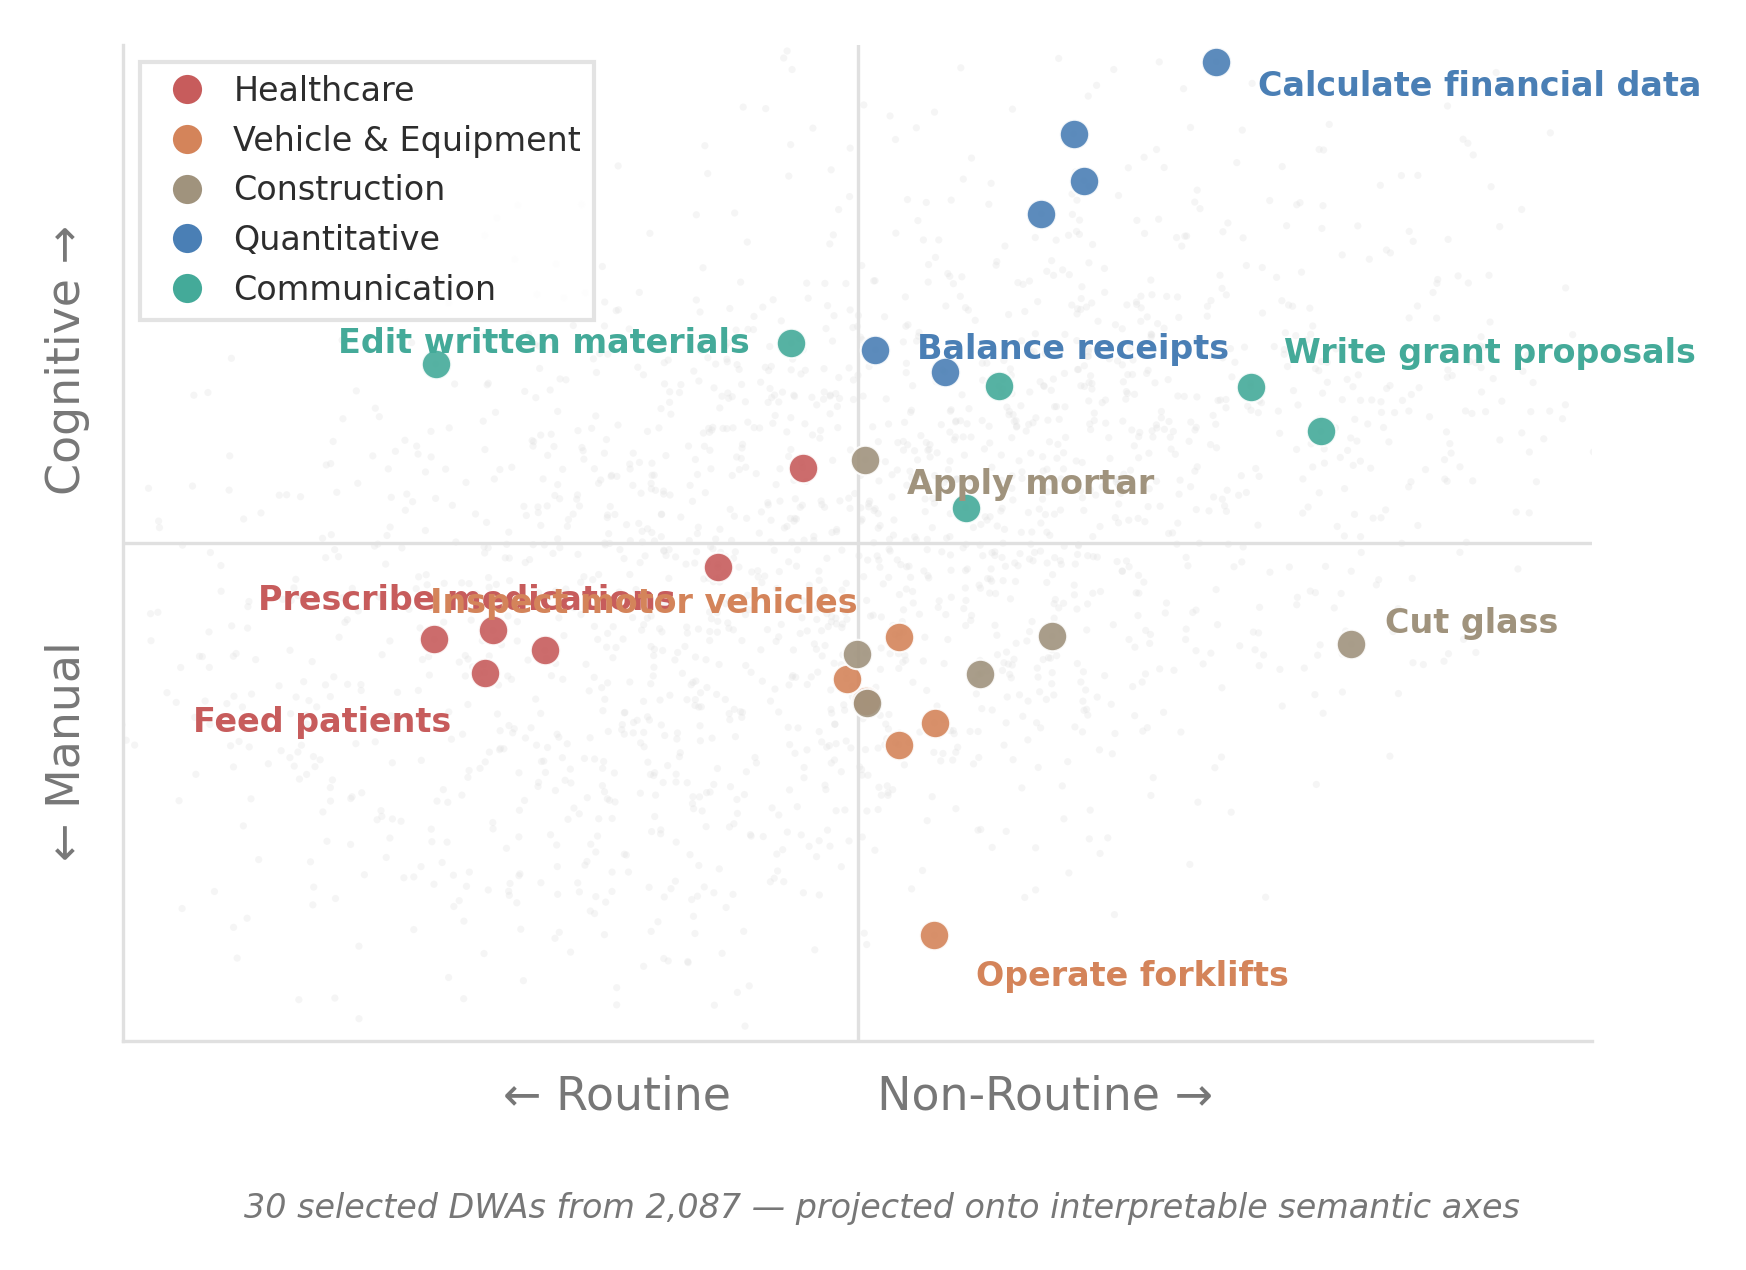
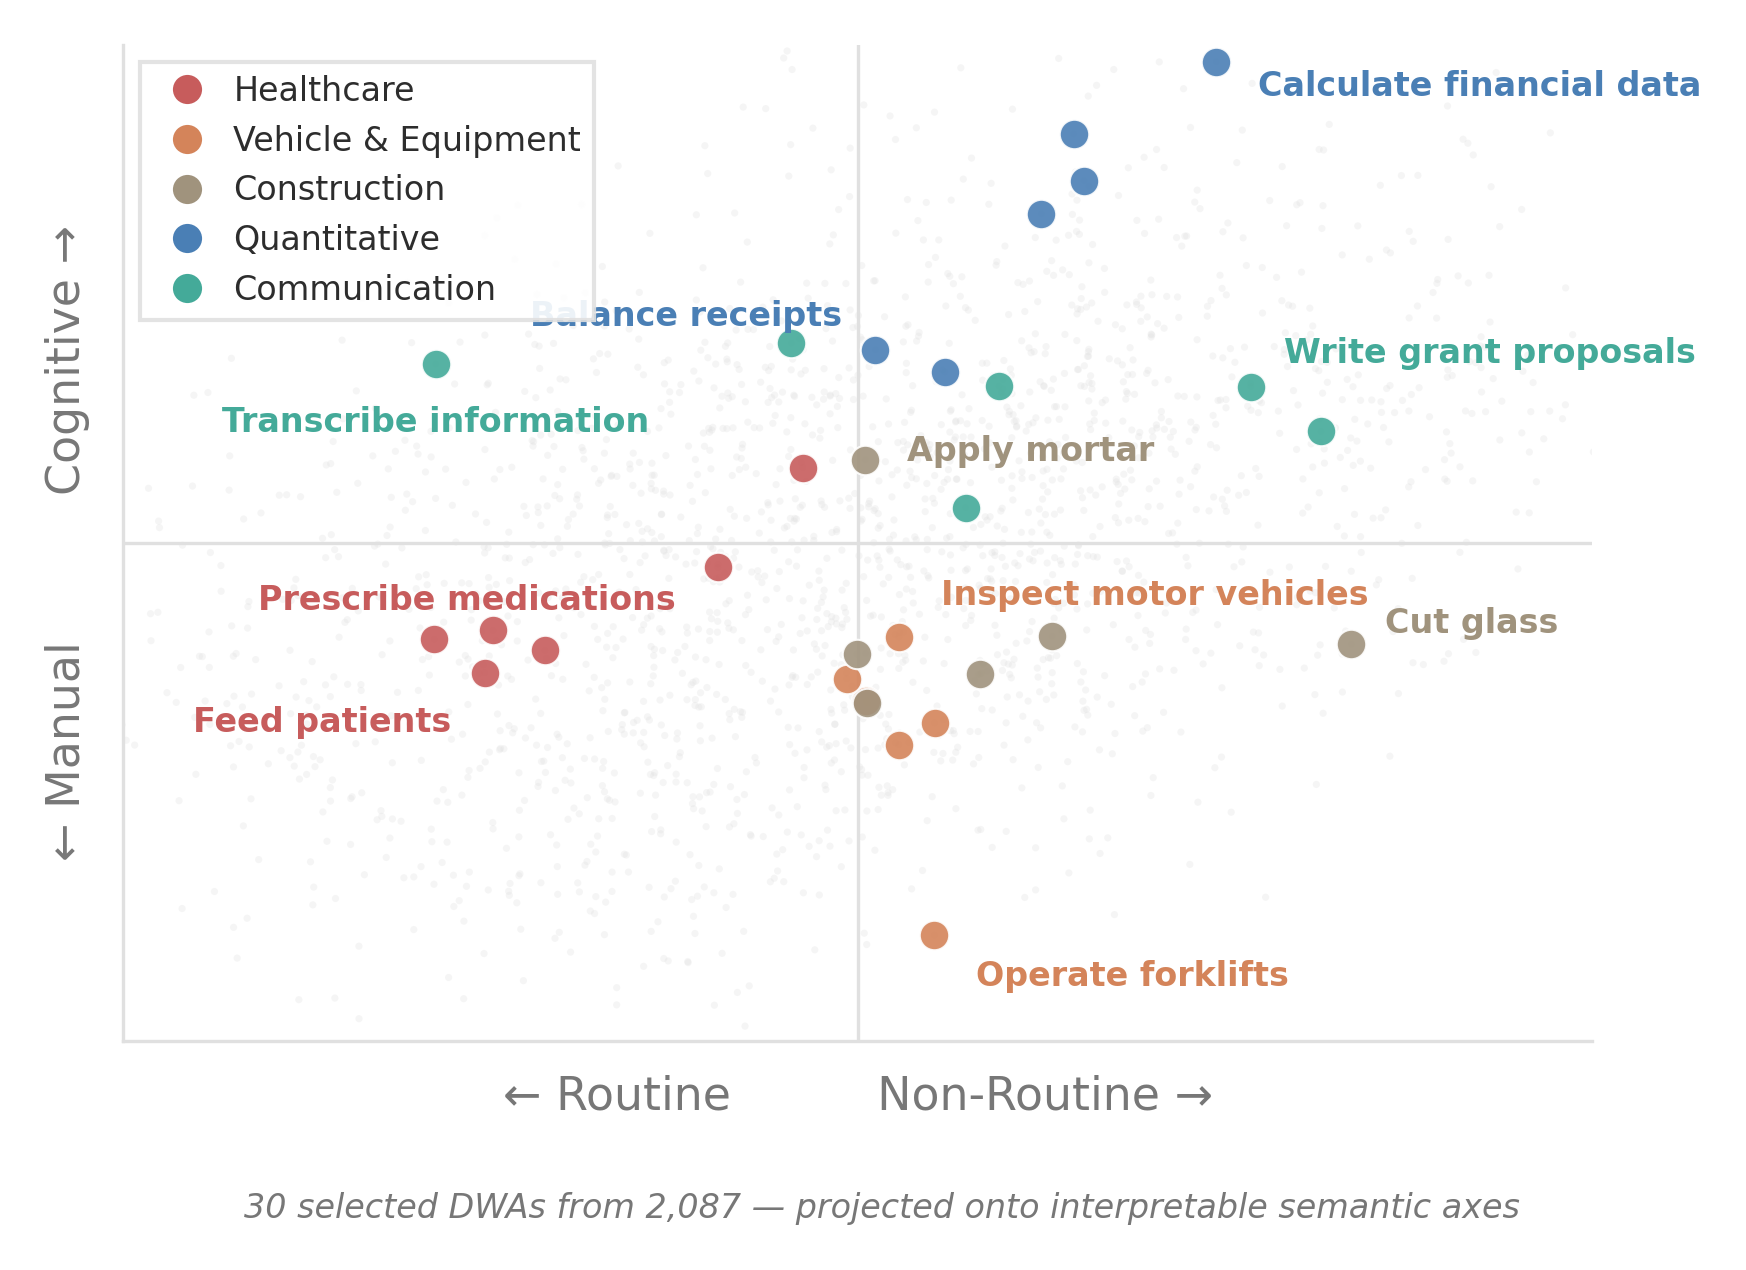
v0.7.10.18: Fig3 label repositioning pass 2

diff --git a/figures/fig3_task_scatter.py b/figures/fig3_task_scatter.py
@@ -86,26 +86,27 @@ LABELED = {
     'Balance receipts.',
     'Calculate financial data.',
     'Write grant proposals.',
-    'Edit written materials.',
+    'Transcribe spoken or written information.',
 }
 
 # Annotation offsets (dx, dy) in points
 LABEL_OFFSETS = {
     'Feed patients.':         (-8, -12),
     'Prescribe medications.': (-10, -8),
-    'Inspect motor vehicles.': (-10, 8),
+    'Inspect motor vehicles.': (10, 10),
     'Operate forklifts or other loaders.': (10, -10),
-    'Apply mortar.':          (10, -6),
+    'Apply mortar.':          (10, 2),
     'Cut glass.':             (8, 5),
-    'Balance receipts.':      (10, 0),
+    'Balance receipts.':      (-8, 8),
     'Calculate financial data.': (10, -6),
     'Write grant proposals.': (8, 8),
-    'Edit written materials.': (-10, 0),
+    'Transcribe spoken or written information.': (0, -14),
 }
 
 # Display-name overrides for long titles
 DISPLAY_NAME = {
     'Operate forklifts or other loaders.': 'Operate forklifts',
+    'Transcribe spoken or written information.': 'Transcribe information',
 }
 
 # === Semantic anchor phrases ===
@@ -202,7 +203,7 @@ for _, row in sel_df[sel_df['labeled']].iterrows():
     ax.annotate(label, xy=(row['x'], row['y']),
                 xytext=offset, textcoords='offset points',
                 fontsize=FONT_TICK, color=color, fontweight='bold',
-                ha='left' if offset[0] > 0 else 'right',
+                ha='center' if offset[0] == 0 else ('left' if offset[0] > 0 else 'right'),
                 va='center', zorder=3)
 
 # Legend — lower right

diff --git a/LEDGER.md b/LEDGER.md
@@ -1,6 +1,6 @@
 # LEDGER.md — Task-Space Oracle Research State
 
-**Current Version:** 0.7.10.17
+**Current Version:** 0.7.10.18
 **Last Updated:** 2026-03-10
 **Paper Draft:** `paper/main.tex`
 
@@ -764,6 +764,7 @@ Deprecated approaches. Do not retry.
 | Version | Date | Changes |
 |---------|------|---------|
 | 0.7.9.3 | 2026-03-09 | Captions for fig3/fig4, swap fig5/fig6 to Budget vs Credit Analysts. |
+| 0.7.10.18 | 2026-03-10 | Fig3 label repositioning pass 2 — swap Edit→Transcribe, fix overlaps. |
 | 0.7.10.17 | 2026-03-10 | Fig3 label repositioning — clear overlaps between themes. |
 | 0.7.10.16 | 2026-03-10 | Fig3 rebalance 6 per theme = 30 DWAs, 10 labels. Added Transcribe, Type documents, Prepare budgets. |
 | 0.7.10.15 | 2026-03-10 | Fig3 swap Test patient vision for Prescribe medications label. 29 DWAs, 10 labels. |
